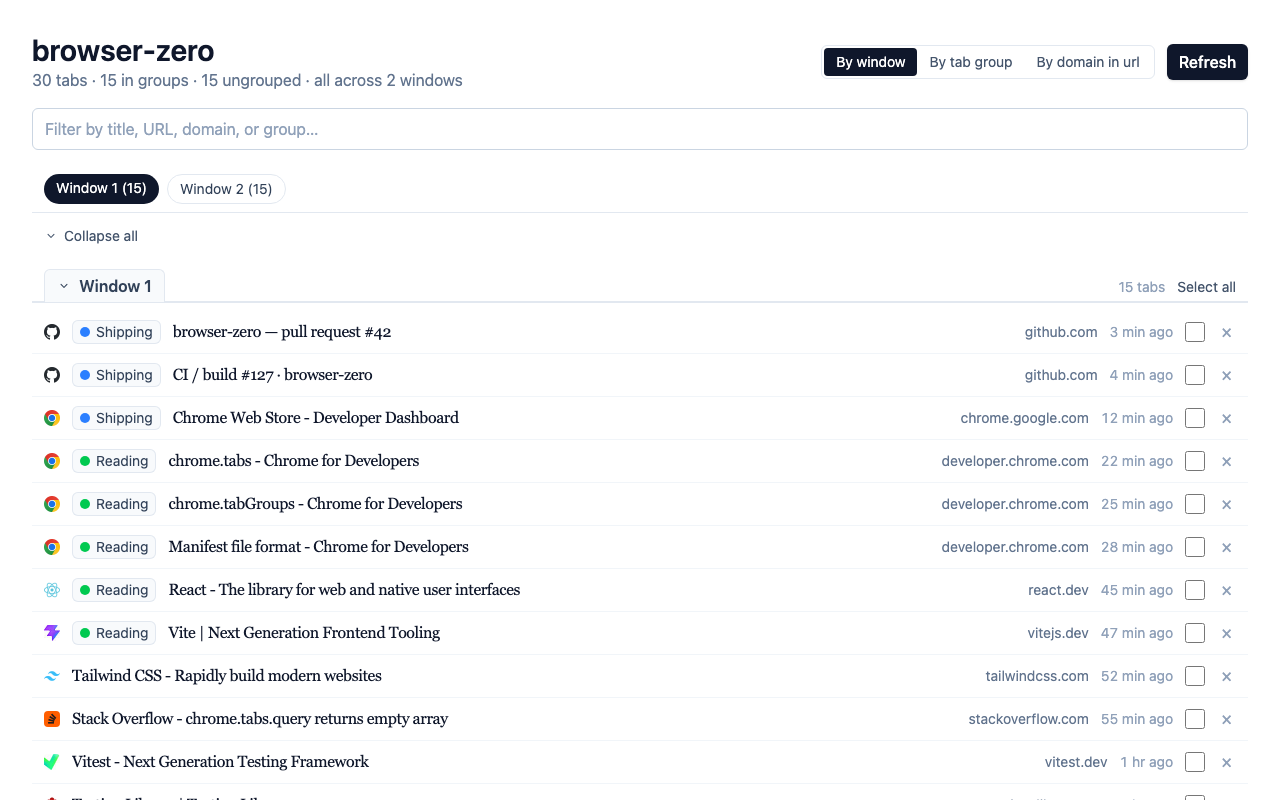
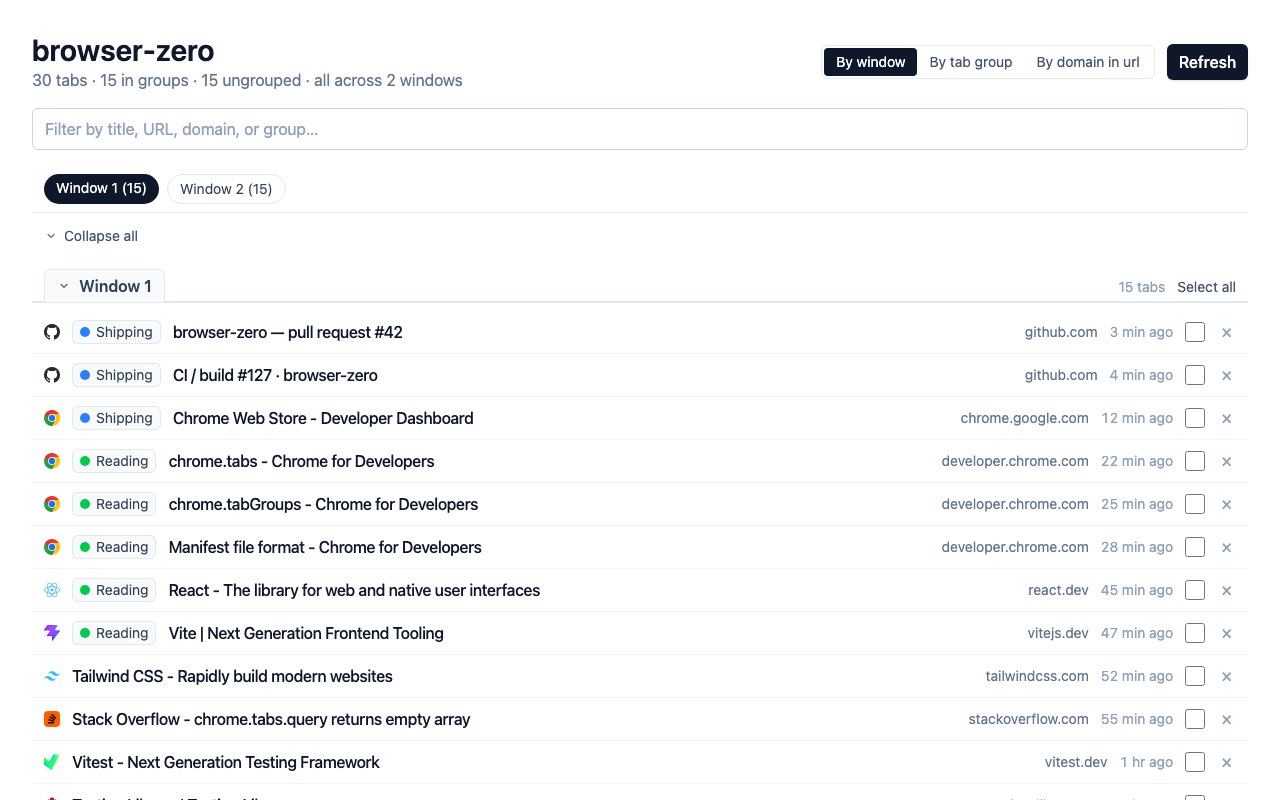
fix(dashboard): swap serif tab titles for font-medium + tighter tracking
User didn't like the serif. Keep the same system-sans family as the
rest of the UI, but use font-medium + tracking-tight + text-slate-900
so titles still read as the primary content per row without the
typographic genre shift.

Screenshots regenerated. Release zip refreshed. 76/76 tests unchanged.

diff --git a/src/dashboard/components/TabRow.tsx b/src/dashboard/components/TabRow.tsx
@@ -52,7 +52,7 @@ export function TabRow({
           event.preventDefault();
           onFocus(tab.id, tab.windowId);
         }}
-        className="min-w-0 flex-1 truncate font-serif text-base tracking-tight text-slate-900 hover:underline"
+        className="min-w-0 flex-1 truncate text-base font-medium tracking-tight text-slate-900 hover:underline"
       >
         {tab.title}
       </a>
